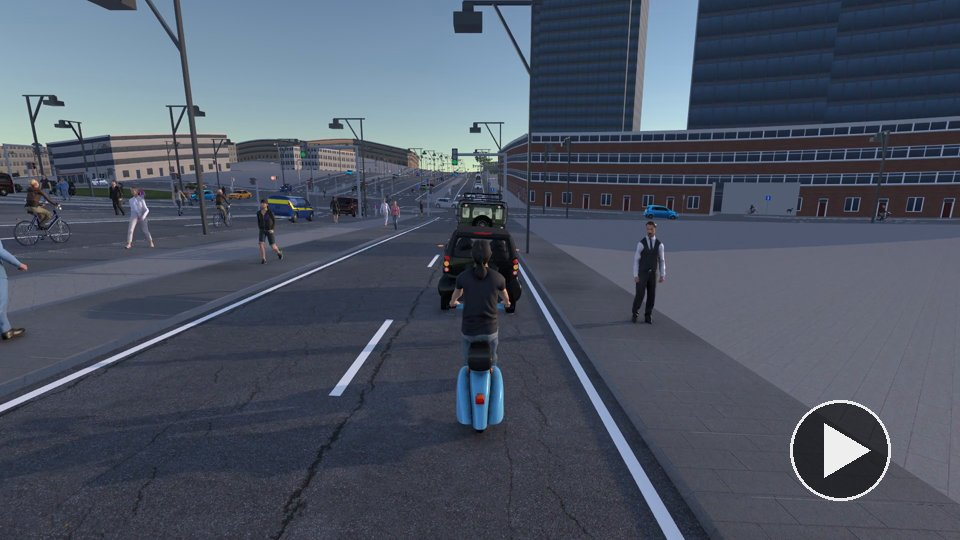
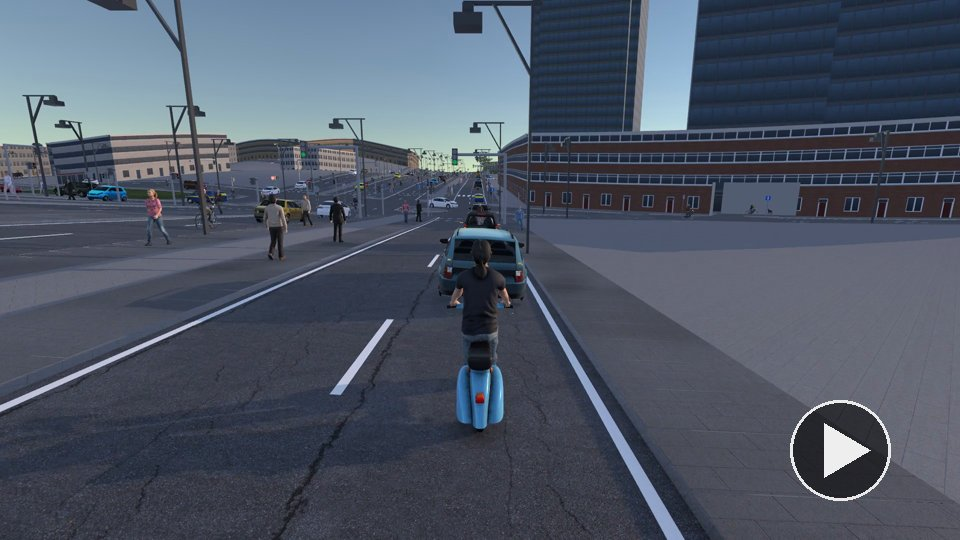
README videos: dusk in New York (20:25) and Sydney (16:50), rush hour by bicycle in Eindhoven, Ho Chi Minh City again
- dusk_newyork and dusk_sydney a few minutes before sunset (the simulator's sun is set for 21 June), as Barcelona's:
  windows and street lamps lit, a dusk sky; at 19:15 and 16:20 they were low-sun daylight in shaded streets.
- rush_eindhoven ridden on a bicycle on the TU/e campus, with the cyclists now kept near the participant (#264).
- moped_hcmc rendered again with the pedestrians off the carriageways (#265).

Closes #263.

diff --git a/README.md b/README.md
@@ -46,10 +46,10 @@ The simulator is open source and free to use. It is aimed at, but not limited to
 <a id="short-videos"></a>🎬 **Short videos** (20 s each in full HD, with the simulator's sound; click to play), in 14 cities on six continents. They were made by the simulator itself in batch mode ([videos from fixed cameras](#videos-from-fixed-cameras), frame by frame with the sound rendered in step), with the participants on the [autopilot](#city-maps-openstreetmap) and the built-in traffic of the city maps; all soundtracks have the same gain (+4 dB, peaks limited to -1 dBFS), so their levels compare as in the simulator: a quiet street on foot is about 16 dB quieter than inside a car:
 
 <table>
-<tr><td width="33%" valign="top"><a href="ReadmeFiles/videos/rush_eindhoven.mp4"><img src="ReadmeFiles/videos/rush_eindhoven.jpg" width="100%" alt="Rush hour (08:15) on De Zaale on the TU/e campus in Eindhoven: queuing cars, and cyclists on both sides"></a><br>Rush hour (08:15) on De Zaale on the TU/e campus in Eindhoven: queuing cars, and cyclists on both sides</td><td width="33%" valign="top"><a href="ReadmeFiles/videos/cycle_ghent.mp4"><img src="ReadmeFiles/videos/cycle_ghent.jpg" width="100%" alt="Cycling in Ghent, from cobblestones onto asphalt"></a><br>Cycling in Ghent, from cobblestones onto asphalt</td><td width="33%" valign="top"><a href="ReadmeFiles/videos/walk_boulder.mp4"><img src="ReadmeFiles/videos/walk_boulder.jpg" width="100%" alt="Walking on the Pearl Street Mall in Boulder, Colorado, among all seven animals (horse, deer, husky, fox, cat, dog, pigeon)"></a><br>Walking on the Pearl Street Mall in Boulder, Colorado, among all seven animals (horse, deer, husky, fox, cat, dog, pigeon)</td></tr>
+<tr><td width="33%" valign="top"><a href="ReadmeFiles/videos/rush_eindhoven.mp4"><img src="ReadmeFiles/videos/rush_eindhoven.jpg" width="100%" alt="Rush hour (08:15) on the TU/e campus in Eindhoven, by bicycle among the other cyclists"></a><br>Rush hour (08:15) on the TU/e campus in Eindhoven, by bicycle among the other cyclists</td><td width="33%" valign="top"><a href="ReadmeFiles/videos/cycle_ghent.mp4"><img src="ReadmeFiles/videos/cycle_ghent.jpg" width="100%" alt="Cycling in Ghent, from cobblestones onto asphalt"></a><br>Cycling in Ghent, from cobblestones onto asphalt</td><td width="33%" valign="top"><a href="ReadmeFiles/videos/walk_boulder.mp4"><img src="ReadmeFiles/videos/walk_boulder.jpg" width="100%" alt="Walking on the Pearl Street Mall in Boulder, Colorado, among all seven animals (horse, deer, husky, fox, cat, dog, pigeon)"></a><br>Walking on the Pearl Street Mall in Boulder, Colorado, among all seven animals (horse, deer, husky, fox, cat, dog, pigeon)</td></tr>
 <tr><td width="33%" valign="top"><a href="ReadmeFiles/videos/drone_tue.mp4"><img src="ReadmeFiles/videos/drone_tue.jpg" width="100%" alt="Flying a drone over the TU/e campus in Eindhoven (a map built from its coordinates)"></a><br>Flying a drone over the TU/e campus in Eindhoven (a map built from its coordinates)</td><td width="33%" valign="top"><a href="ReadmeFiles/videos/drone_delft.mp4"><img src="ReadmeFiles/videos/drone_delft.jpg" width="100%" alt="Flying a drone over Delft, with an AI swarm"></a><br>Flying a drone over Delft, with an AI swarm</td><td width="33%" valign="top"><a href="ReadmeFiles/videos/dusk_barcelona.mp4"><img src="ReadmeFiles/videos/dusk_barcelona.jpg" width="100%" alt="Evening in Barcelona, the windows lit"></a><br>Evening in Barcelona, the windows lit</td></tr>
-<tr><td width="33%" valign="top"><a href="ReadmeFiles/videos/rain_london.mp4"><img src="ReadmeFiles/videos/rain_london.jpg" width="100%" alt="Heavy rain in London, right-hand drive"></a><br>Heavy rain in London, right-hand drive</td><td width="33%" valign="top"><a href="ReadmeFiles/videos/snow_montreal.mp4"><img src="ReadmeFiles/videos/snow_montreal.jpg" width="100%" alt="Snow in Montreal, on the autopilot"></a><br>Snow in Montreal, on the autopilot</td><td width="33%" valign="top"><a href="ReadmeFiles/videos/dusk_newyork.mp4"><img src="ReadmeFiles/videos/dusk_newyork.jpg" width="100%" alt="Early evening in Midtown New York, with the skyline around the map"></a><br>Early evening in Midtown New York, with the skyline around the map</td></tr>
-<tr><td width="33%" valign="top"><a href="ReadmeFiles/videos/dusk_sydney.mp4"><img src="ReadmeFiles/videos/dusk_sydney.jpg" width="100%" alt="Late afternoon in Sydney (left-hand traffic)"></a><br>Late afternoon in Sydney (left-hand traffic)</td><td width="33%" valign="top"><a href="ReadmeFiles/videos/moped_hcmc.mp4"><img src="ReadmeFiles/videos/moped_hcmc.jpg" width="100%" alt="A moped in Ho Chi Minh City at the evening rush, by the Nguyen Hue walking street"></a><br>A moped in Ho Chi Minh City at the evening rush, by the Nguyen Hue walking street</td><td width="33%" valign="top"><a href="ReadmeFiles/videos/escooter_tokyo.mp4"><img src="ReadmeFiles/videos/escooter_tokyo.jpg" width="100%" alt="An e-scooter in Tokyo (left-hand traffic)"></a><br>An e-scooter in Tokyo (left-hand traffic)</td></tr>
+<tr><td width="33%" valign="top"><a href="ReadmeFiles/videos/rain_london.mp4"><img src="ReadmeFiles/videos/rain_london.jpg" width="100%" alt="Heavy rain in London, right-hand drive"></a><br>Heavy rain in London, right-hand drive</td><td width="33%" valign="top"><a href="ReadmeFiles/videos/snow_montreal.mp4"><img src="ReadmeFiles/videos/snow_montreal.jpg" width="100%" alt="Snow in Montreal, on the autopilot"></a><br>Snow in Montreal, on the autopilot</td><td width="33%" valign="top"><a href="ReadmeFiles/videos/dusk_newyork.mp4"><img src="ReadmeFiles/videos/dusk_newyork.jpg" width="100%" alt="Dusk in Midtown New York (20:25), with the skyline around the map"></a><br>Dusk in Midtown New York (20:25), with the skyline around the map</td></tr>
+<tr><td width="33%" valign="top"><a href="ReadmeFiles/videos/dusk_sydney.mp4"><img src="ReadmeFiles/videos/dusk_sydney.jpg" width="100%" alt="Dusk in Sydney (16:50, left-hand traffic)"></a><br>Dusk in Sydney (16:50, left-hand traffic)</td><td width="33%" valign="top"><a href="ReadmeFiles/videos/moped_hcmc.mp4"><img src="ReadmeFiles/videos/moped_hcmc.jpg" width="100%" alt="A moped in Ho Chi Minh City at the evening rush, by the Nguyen Hue walking street"></a><br>A moped in Ho Chi Minh City at the evening rush, by the Nguyen Hue walking street</td><td width="33%" valign="top"><a href="ReadmeFiles/videos/escooter_tokyo.mp4"><img src="ReadmeFiles/videos/escooter_tokyo.jpg" width="100%" alt="An e-scooter in Tokyo (left-hand traffic)"></a><br>An e-scooter in Tokyo (left-hand traffic)</td></tr>
 <tr><td width="33%" valign="top"><a href="ReadmeFiles/videos/bus_nairobi.mp4"><img src="ReadmeFiles/videos/bus_nairobi.jpg" width="100%" alt="Driving an articulated bus through Nairobi (left-hand traffic)"></a><br>Driving an articulated bus through Nairobi (left-hand traffic)</td><td width="33%" valign="top"><a href="ReadmeFiles/videos/race_stellenbosch.mp4"><img src="ReadmeFiles/videos/race_stellenbosch.jpg" width="100%" alt="A race cyclist in Stellenbosch, South Africa"></a><br>A race cyclist in Stellenbosch, South Africa</td><td width="33%" valign="top"><a href="ReadmeFiles/videos/drive_saopaulo.mp4"><img src="ReadmeFiles/videos/drive_saopaulo.jpg" width="100%" alt="Driving along Avenida Paulista in São Paulo (a Toyota Corolla)"></a><br>Driving along Avenida Paulista in São Paulo (a Toyota Corolla)</td></tr>
 </table>
 
